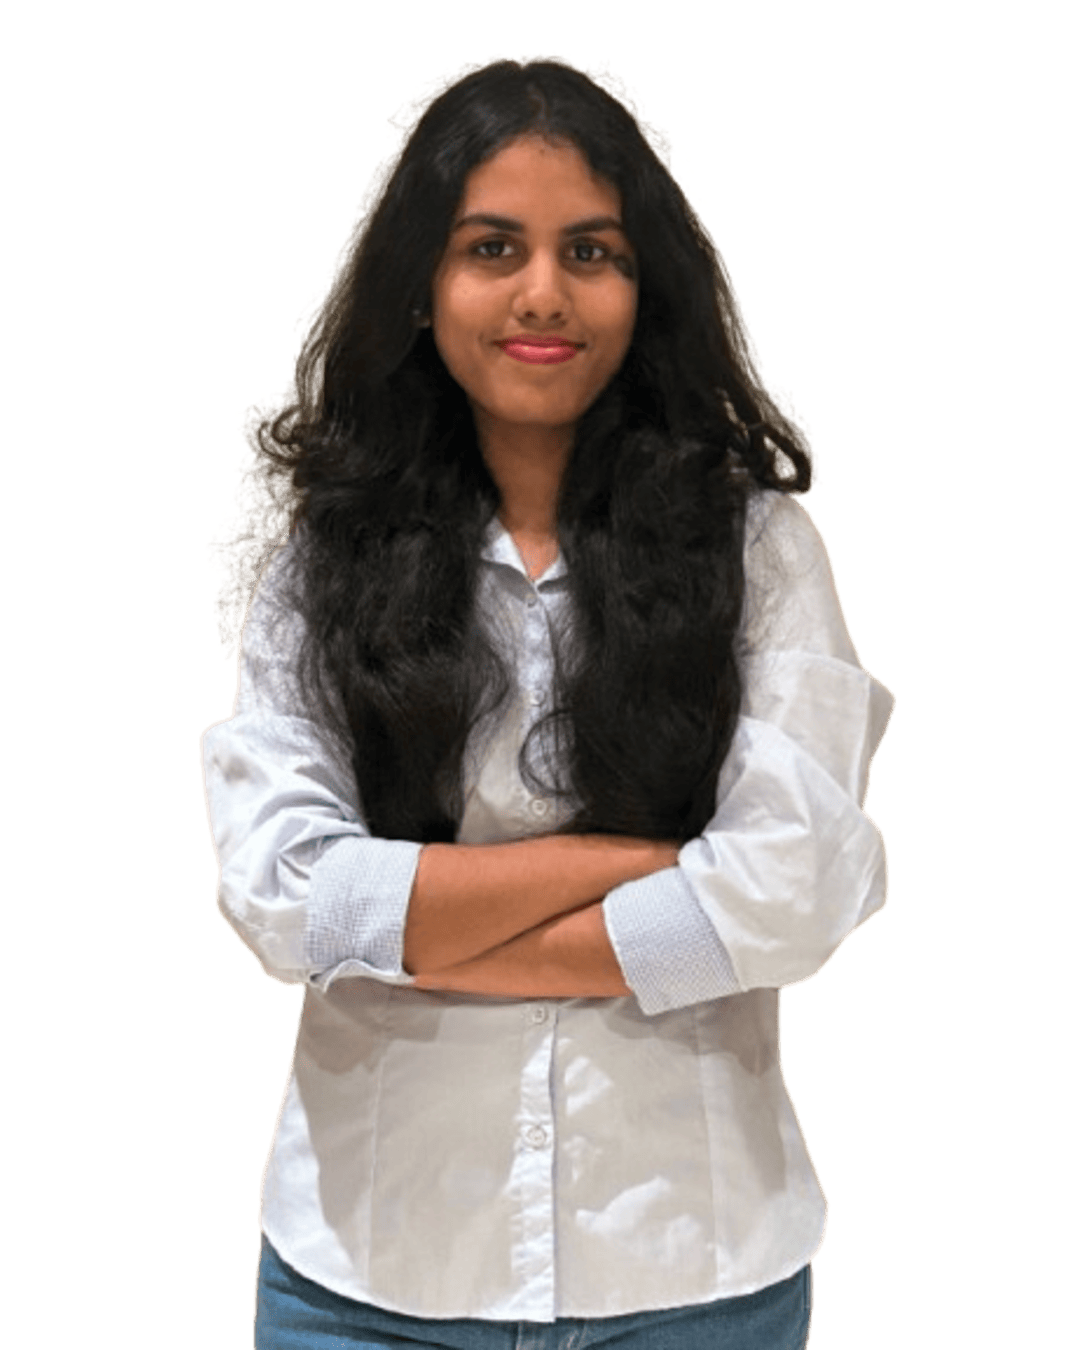
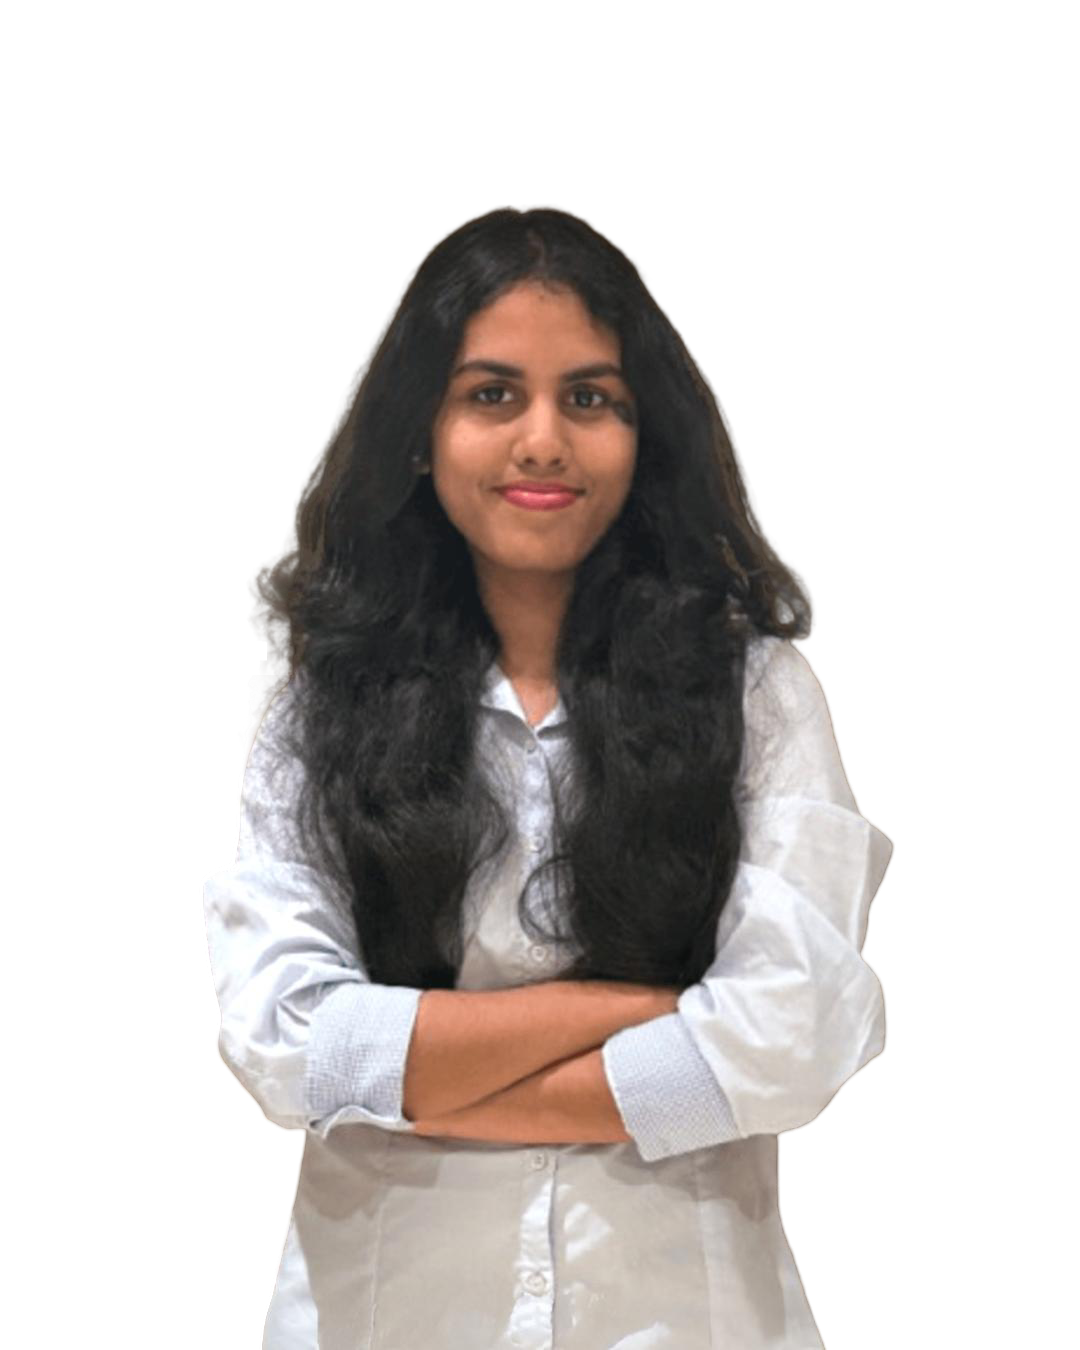
Update 2

diff --git a/about.html b/about.html
@@ -120,22 +120,22 @@
         <div class="team-member" role="listitem">
           <img src="images/team/Kimberly.png" alt="Portrait of Kimberly Dianne, Technical Lead" class="member-photo">
           <div class="member-info">
-            <h3>Kimberly Dianne</h3>
+            <h3>Kimberly</h3>
             <p class="role">Technical Lead</p>
-            <p class="bio">Encouraging hands-on learning • Building strong technical foundation • Making cybersecurity more accessible to student</p>
+            <p class="bio">Encouraging hands-on learning • Building strong technical foundation</p>
           </div>
+        </div>
 
         <div class="team-member" role="listitem">
           <img src="images/team/prithika.png" alt="Portrait of Prithika Gopinath, Assistant Technical Lead" class="member-photo">
           <div class="member-info">
-            <h3>Prithika Gopinath</h3>
-            <p class="role">Assistant Techincal Lead</p>
-            <p class="bio">Supporting technical activities • Bringing curiosity • Engaging with students</p>
+            <h3>Prithika</h3>
+            <p class="role">Ast. Techincal Lead</p>
+            <p class="bio">Supporting technical activities • Bringing curiosity</p>
           </div>
         </div>
 
 
-        </div>
       </div>
     </section>
 
